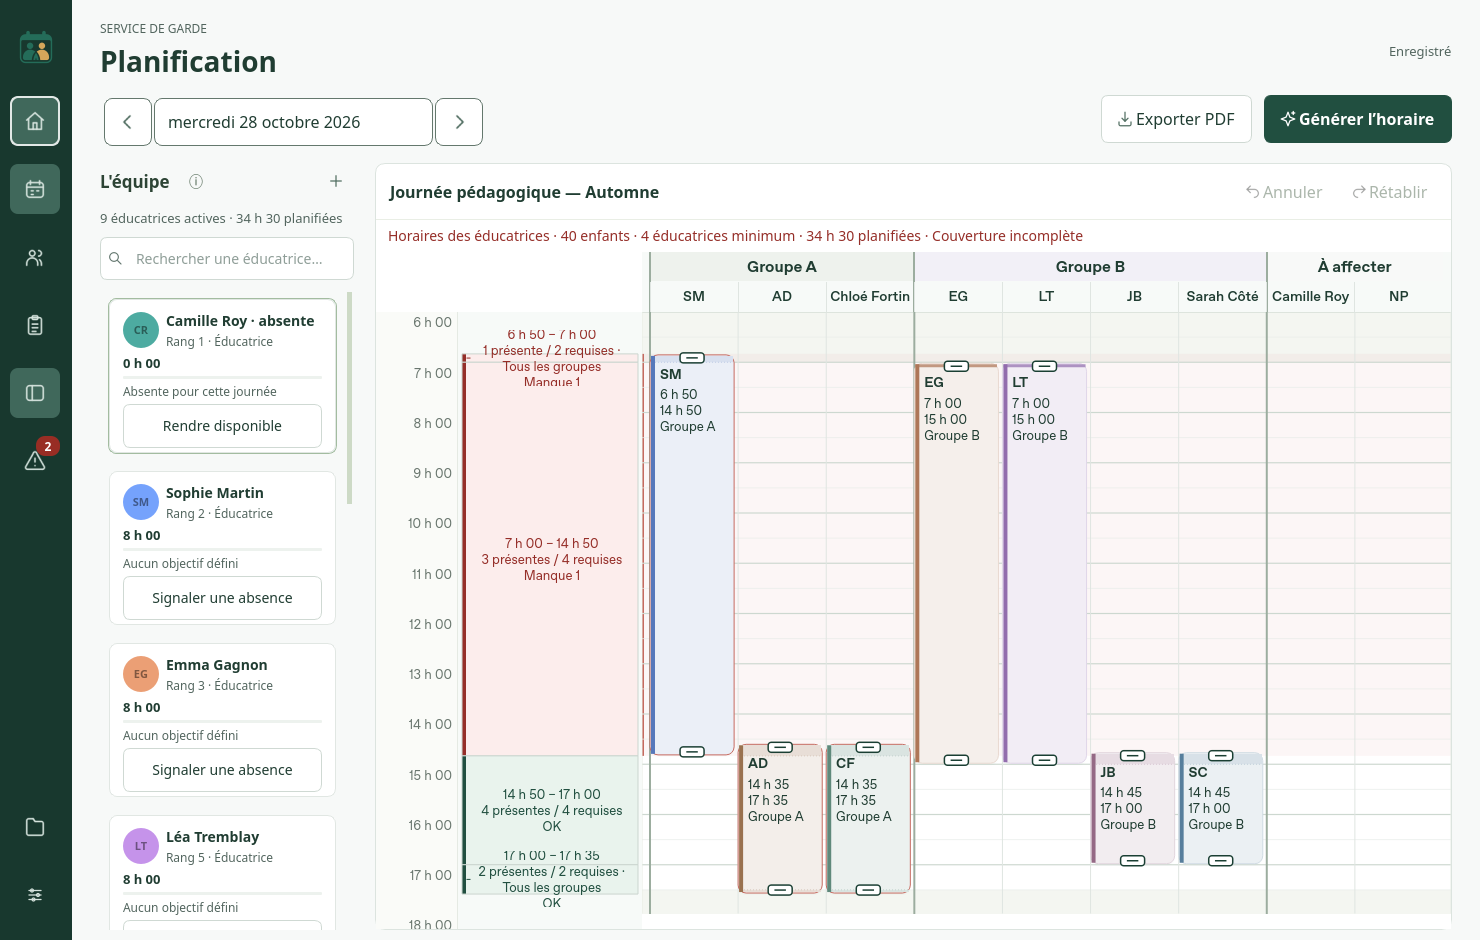
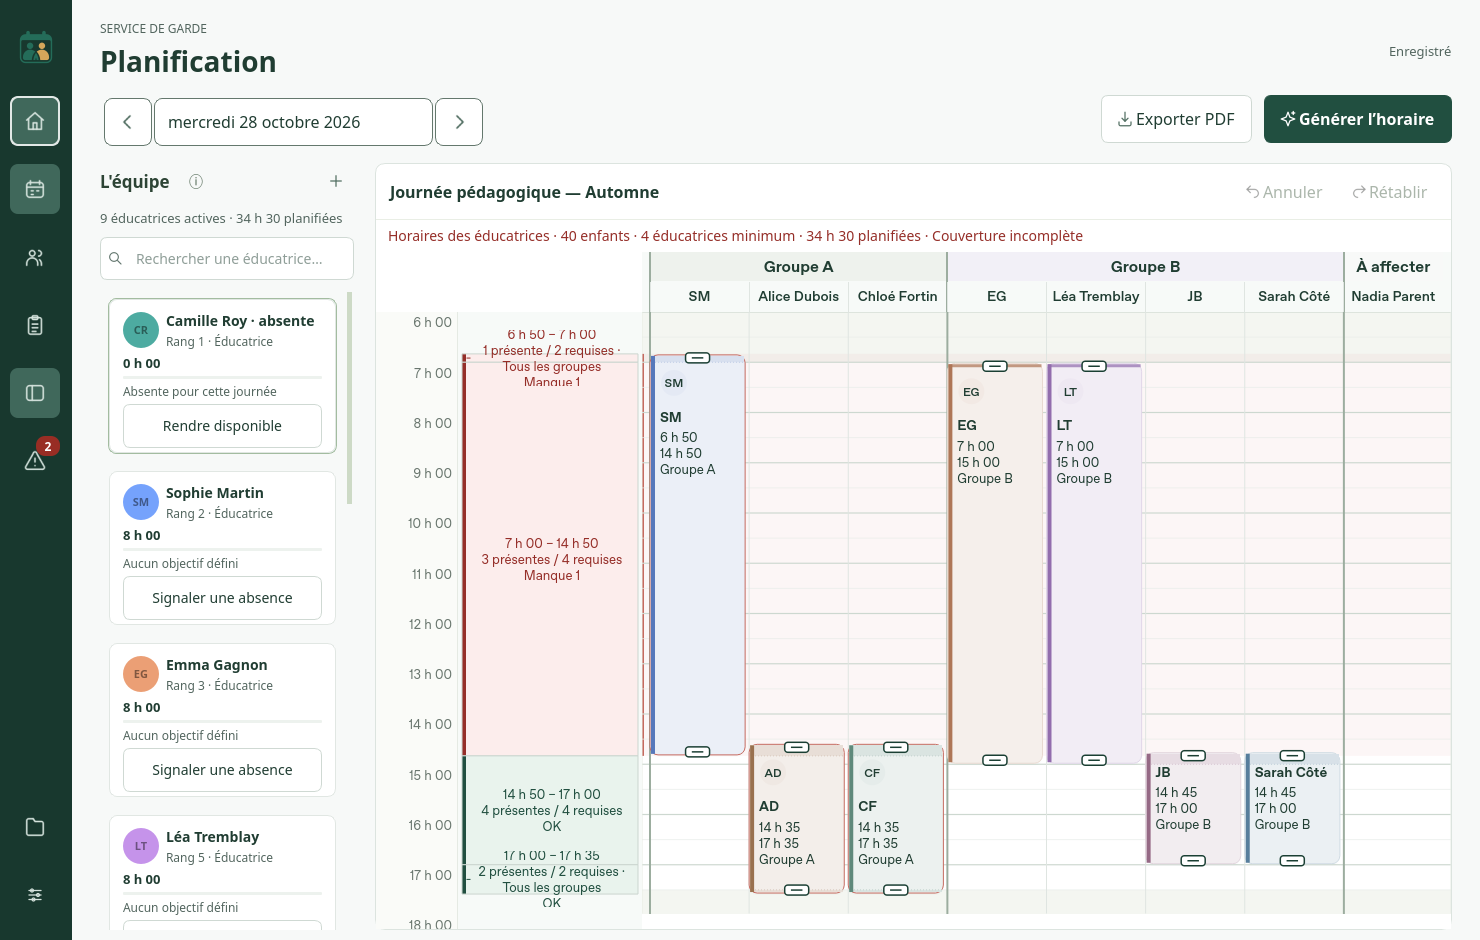
10 — Écarter les personnes absentes des nouvelles affectations sans cacher les verrous

diff --git a/tests/test_day_absence.py b/tests/test_day_absence.py
@@ -55,6 +55,15 @@ def test_absent_guarantees_and_targets_do_not_force_hours_or_warnings():
     assert not [i for i in validate(result.proposal) if i.severity=='error']
 
 
+def test_absent_profiles_are_not_unassigned_columns_but_locked_quarters_remain_visible():
+    from test_group_generation import grouped_day
+    from gardeplan.staff_layout import assignment_columns
+    plan=set_day_absence(grouped_day(),'0',True)
+    assert not any(person and person.id=='0' for group,person in assignment_columns(plan))
+    plan.shifts=[Shift('locked','0','A',0,600,700,locked=True)]
+    assert any(person and person.id=='0' for group,person in assignment_columns(plan))
+
+
 def test_absence_card_is_keyboard_operable_and_undo_restores_assignments(tmp_path,qapp):
     from PySide6.QtCore import Qt
     from PySide6.QtTest import QTest

diff --git a/gardeplan/ui/main_window.py b/gardeplan/ui/main_window.py
@@ -1438,6 +1438,9 @@ class MainWindow(QMainWindow):
     def new_shift(self, checked=False, *, day=None, start=None, group_id="", educator_id=""):
         if not self._can_edit():
             return
+        if is_absent(self.week,educator_id):
+            QMessageBox.information(self,"Absence pour cette journée","Cette personne est absente pour cette journée. Utilisez Rendre disponible dans L’équipe avant de lui créer un quart.")
+            return
         if not self.week.educators or not self.week.groups:
             QMessageBox.information(self, "Préparer le calendrier", "Ajoutez une éducatrice et saisissez les inscriptions, puis glissez son nom sur le calendrier ou double-cliquez sur une plage vide.")
             return

diff --git a/gardeplan/staff_layout.py b/gardeplan/staff_layout.py
@@ -1,5 +1,6 @@
 """Stable group/educator columns without changing any assignment."""
 from .models import Group, Educator
+from .attendance import is_absent
 
 
 def assignment_columns(plan, day=0):
@@ -19,7 +20,7 @@ def assignment_columns(plan, day=0):
         result.extend((group, person) for person in members)
         if not members:
             result.append((group, None))
-    unassigned = sorted((e for e in plan.educators if e.active and e.id not in assigned),
+    unassigned = sorted((e for e in plan.educators if e.active and not is_absent(plan,e.id) and e.id not in assigned),
                         key=lambda e: (e.seniority, e.name.casefold()))
     result.extend((None, e) for e in unassigned)
     return result

diff --git a/docs/LIVRAISON_0_4_0.md b/docs/LIVRAISON_0_4_0.md
@@ -35,6 +35,7 @@ Les captures Qt6 utilisent des données fictives. La comparaison montre volontai
 
 ## Fichiers modifiés
 
+- `gardeplan/staff_layout.py` : les personnes absentes ne sont pas proposées à de nouvelles affectations ; leurs quarts verrouillés restent visibles.
 - `.github/release-request.json`
 - `CHANGELOG.md`
 - `README.md`
